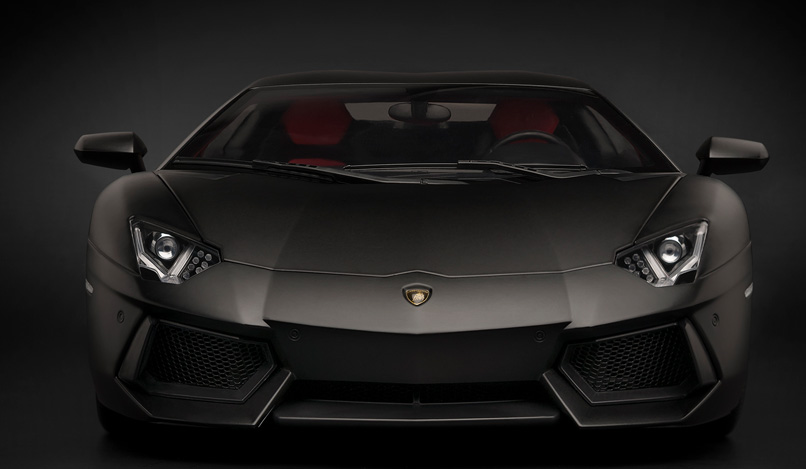
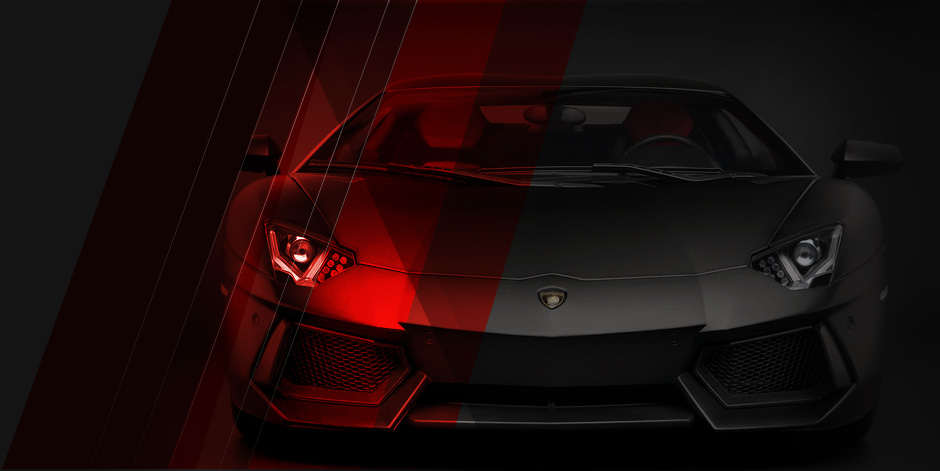
slider

diff --git a/css/owl.theme.css b/css/owl.theme.css
@@ -4,8 +4,9 @@
 */
 
 .owl-theme .owl-controls{
-	margin-top: 10px;
+	margin-top: -35px;
 	text-align: center;
+	position: relative;
 }
 
 /* Styling Next and Prev buttons */
@@ -87,8 +88,13 @@
 	vertical-align: top;
 }
 
+.slide-section__left{
+	position: relative;
+	z-index: 3;
+}
+
 .slide-section__right img{
-	margin-left: -30%;
+	margin-left: -47%;
 	z-index: 1;
 	position: relative;
 }
@@ -99,17 +105,26 @@
 
 .slider{
 	background: #141414;
+	max-height: 471px;
+	margin-top: 0px;
 }
 
 .slide--over {
 position: relative;
-margin-top: -37.7%;
-float: right;
+margin-top: -480px;
+height: 469px;
 }
 
 .slide--over img {
-position: relative;
-display: inline;
-margin-left: -15em;
-opacity: .5;
+position: absolute;
+}
+
+.slide--over__one {
+left: 18em;
+opacity: .1;
+}
+
+.slide--over__one {
+left: 18em;
+opacity: .1;
 }

diff --git a/contact.html b/contact.html
@@ -87,8 +87,8 @@
 				</div>
 			</section>
 			<section class="gs-container">
-				<div class="grey-bg fb">
-					<div class="form">
+				<div class="fb">
+					<div class="form grey-bg">
 				    	<form action="#" method="GET" name="">
 				    		<label>First Name</label>
 				    		<input type="text" name="name"><br>
@@ -150,7 +150,7 @@
 					<a href="#"><img src="" alt=""></a>
 				</div>
 			</section>
-			<section class=" section--social-media">
+			<section class="section--social-media">
 				<div class="gs-container social-media-fb">
 					<a href="https://twitter.com/"><i class="icon-twitter"></i></a>
 					<a href="https://www.facebook.com/"><i class="icon-facebook"></i></a>

diff --git a/index.html b/index.html
@@ -110,13 +110,13 @@
 				</div>
 			
 			</section><!-- End section-slider -->
-			<div class="slide--over">
+			<!-- <div class="slide--over">
 				<img class="slide--over__one" src="img/stripe1.png">
 				<img class="slide--over__two" src="img/stripe2.png">
 				<img class="slide--over__three" src="img/stripe3.png">
 				<img class="slide--over__four" src="img/stripe4.png">
 				<img class="slide--over__five" src="img/stripeslines.png">
-			</div>
+			</div> -->
 			<section class="gs-container section--featured fb">
 				<div class="featured-single one-third">
 					<div class="featured-single__img">
